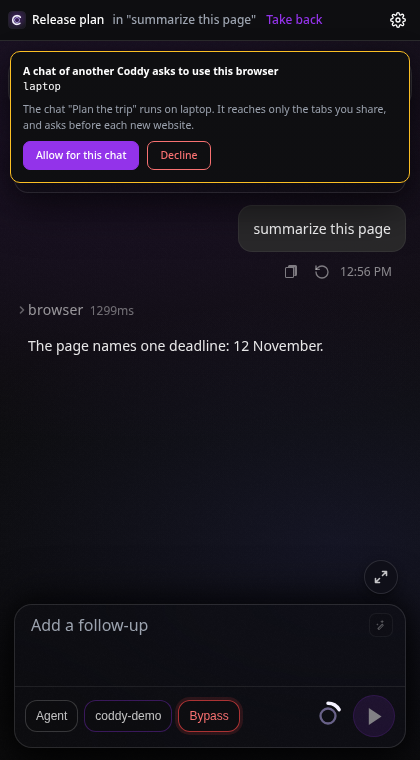
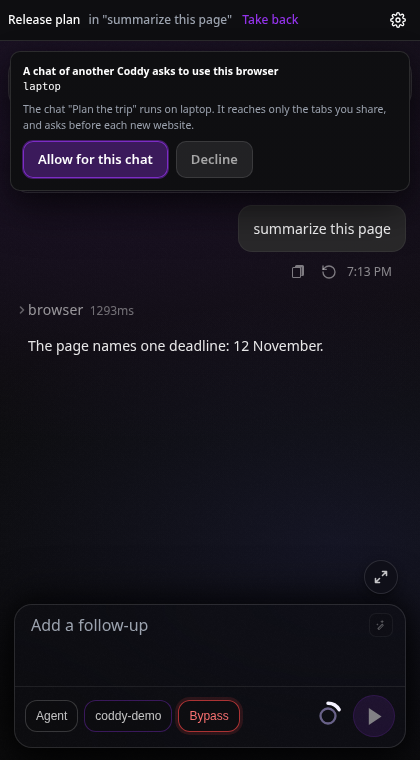
fix: the extension's buttons look as the web UI's own
The primary button was a solid fill of the accent and Decline was red,
while the web UI paints its Allow and Save as a tint of the accent with the
text in the text colour and its refusal as a quiet grey button. The
extension now does the same in whichever theme the web UI sends: a primary
button is a tint and a frame of the accent, Decline is the web UI's
refusal, a question's buttons take the size of the web UI's permission
buttons, its card loses the amber frame, and a pointed-at button brightens
instead of taking the accent. textOn and --accent-text, which only the
solid fill needed, are gone. The Chromium end-to-end run checks the look in
the approval window and in the panel; the README screenshots are retaken.

diff --git a/src/ui.css b/src/ui.css
@@ -6,7 +6,6 @@
   --text: #17171c;
   --muted: #62616d;
   --accent: #7c3aed;
-  --accent-text: #ffffff;
   --danger: #c62828;
   --ok: #15803d;
   --wait: #b45309;
@@ -21,7 +20,6 @@
     --text: #f2f1f7;
     --muted: #a3a1b2;
     --accent: #a78bfa;
-    --accent-text: #15121f;
     --danger: #f87171;
     --ok: #4ade80;
     --wait: #fbbf24;
@@ -114,9 +112,6 @@ p {
   border: 1px solid var(--border);
   border-radius: var(--radius);
   padding: 12px;
-}
-.card.approval {
-  border-color: var(--wait);
 }
 .origin {
   font-family: ui-monospace, SFMono-Regular, Menlo, monospace;
@@ -271,23 +266,54 @@ button {
   color: var(--text);
   cursor: pointer;
 }
+/* A button pointed at brightens, as the web UI's do; the accent is the
+   primary action's alone. */
 button:hover {
-  border-color: var(--accent);
+  border-color: color-mix(in srgb, var(--text) 35%, var(--border));
 }
 button:focus-visible,
 input:focus-visible {
   outline: 2px solid var(--accent);
   outline-offset: 1px;
 }
+/* The buttons look as the web UI's own do, in whichever theme it sends: the
+   primary action is its Allow and Save, the accent as a tint and a frame with
+   the text in the text colour, never a solid fill; Decline is its quiet
+   refusal, not an alarm. */
 button.primary {
-  background: var(--accent);
-  border-color: var(--accent);
-  color: var(--accent-text);
+  background: color-mix(in srgb, var(--accent) 22%, transparent);
+  border-color: color-mix(in srgb, var(--accent) 55%, transparent);
+  color: var(--text);
 }
-button.danger {
-  color: var(--danger);
-  border-color: var(--danger);
-  background: transparent;
+button.primary:hover {
+  background: color-mix(in srgb, var(--accent) 34%, transparent);
+  border-color: color-mix(in srgb, var(--accent) 75%, transparent);
+  box-shadow: 0 0 0 1px color-mix(in srgb, var(--accent) 40%, transparent);
+}
+:root[data-theme="light"] button.primary {
+  background: color-mix(in srgb, var(--accent) 12%, transparent);
+  border-color: color-mix(in srgb, var(--accent) 40%, transparent);
+}
+@media (prefers-color-scheme: light) {
+  :root:not([data-theme="dark"]) button.primary {
+    background: color-mix(in srgb, var(--accent) 12%, transparent);
+    border-color: color-mix(in srgb, var(--accent) 40%, transparent);
+  }
+}
+button.reject {
+  background: color-mix(in srgb, var(--text) 8%, var(--surface));
+  border-color: color-mix(in srgb, var(--text) 16%, var(--surface));
+  color: color-mix(in srgb, var(--text) 62%, var(--surface));
+}
+button.reject:hover {
+  background: color-mix(in srgb, var(--text) 12%, var(--surface));
+}
+/* The buttons of a question are the web UI's permission buttons. */
+.card.approval .row button {
+  padding: 8px 14px;
+  border-radius: 10px;
+  font-size: 13px;
+  font-weight: 600;
 }
 .list {
   list-style: none;

diff --git a/src/frame.js b/src/frame.js
@@ -60,25 +60,6 @@ export function themeOf(raw) {
   return theme;
 }
 
-// textOn picks the text colour for a fill in one of those forms: white or
-// near-black, whichever has the higher WCAG contrast on it, so a button keeps
-// legible text whatever accent the web UI sends. null for anything else.
-export function textOn(colour) {
-  const value = String(colour || "").trim();
-  if (!COLOUR.test(value)) return null;
-  const srgb = value.startsWith("color(");
-  const channels = value
-    .replace(/^color\(srgb|^rgba?\(/, "")
-    .match(/-?(\d+\.?\d*|\.\d+)(e-?\d+)?/g)
-    .slice(0, 3)
-    .map((n) => Math.min(1, Math.max(0, srgb ? Number(n) : Number(n) / 255)));
-  const linear = (c) => (c <= 0.03928 ? c / 12.92 : ((c + 0.055) / 1.055) ** 2.4);
-  const [r, g, b] = channels.map(linear);
-  const fill = 0.2126 * r + 0.7152 * g + 0.0722 * b;
-  const dark = 0.0066; // the luminance of #15121f
-  return 1.05 / (fill + 0.05) >= (fill + 0.05) / (dark + 0.05) ? "#ffffff" : "#15121f";
-}
-
 // listen serves the frame's messages: frame() is the frame's window,
 // origin() the web UI's origin, onTurn({sessionId, title}) the tab for a turn,
 // onTheme(theme) the web UI's colours.

diff --git a/src/panel.js b/src/panel.js
@@ -10,7 +10,7 @@
 import { api } from "./platform.js";
 import { request, el, showError } from "./ui.js";
 import { approvalCard } from "./cards.js";
-import { frameURL, homeSession, listen, openChat, textOn } from "./frame.js";
+import { frameURL, homeSession, listen, openChat } from "./frame.js";
 
 const $ = (id) => document.getElementById(id);
 // The worker counts open panels: a website question shows here instead of a
@@ -105,8 +105,6 @@ function applyTheme(theme) {
   root.dataset.theme = theme.scheme;
   root.style.colorScheme = theme.scheme;
   for (const key of ["bg", "surface", "border", "text", "muted", "accent"]) root.style.setProperty(`--${key}`, theme[key]);
-  // The text on an accent button follows the accent it sits on.
-  root.style.setProperty("--accent-text", textOn(theme.accent) || "");
 }
 
 listen(window, {

diff --git a/src/cards.js b/src/cards.js
@@ -4,7 +4,7 @@ import { request, el, showError } from "./ui.js";
 const choices = [
   ["chat", "Allow for this chat", "primary"],
   ["always", "Always allow", ""],
-  ["deny", "Decline", "danger"],
+  ["deny", "Decline", "reject"],
 ];
 
 // approvalCard asks whether Coddy may act on a website, or whether a chat of
